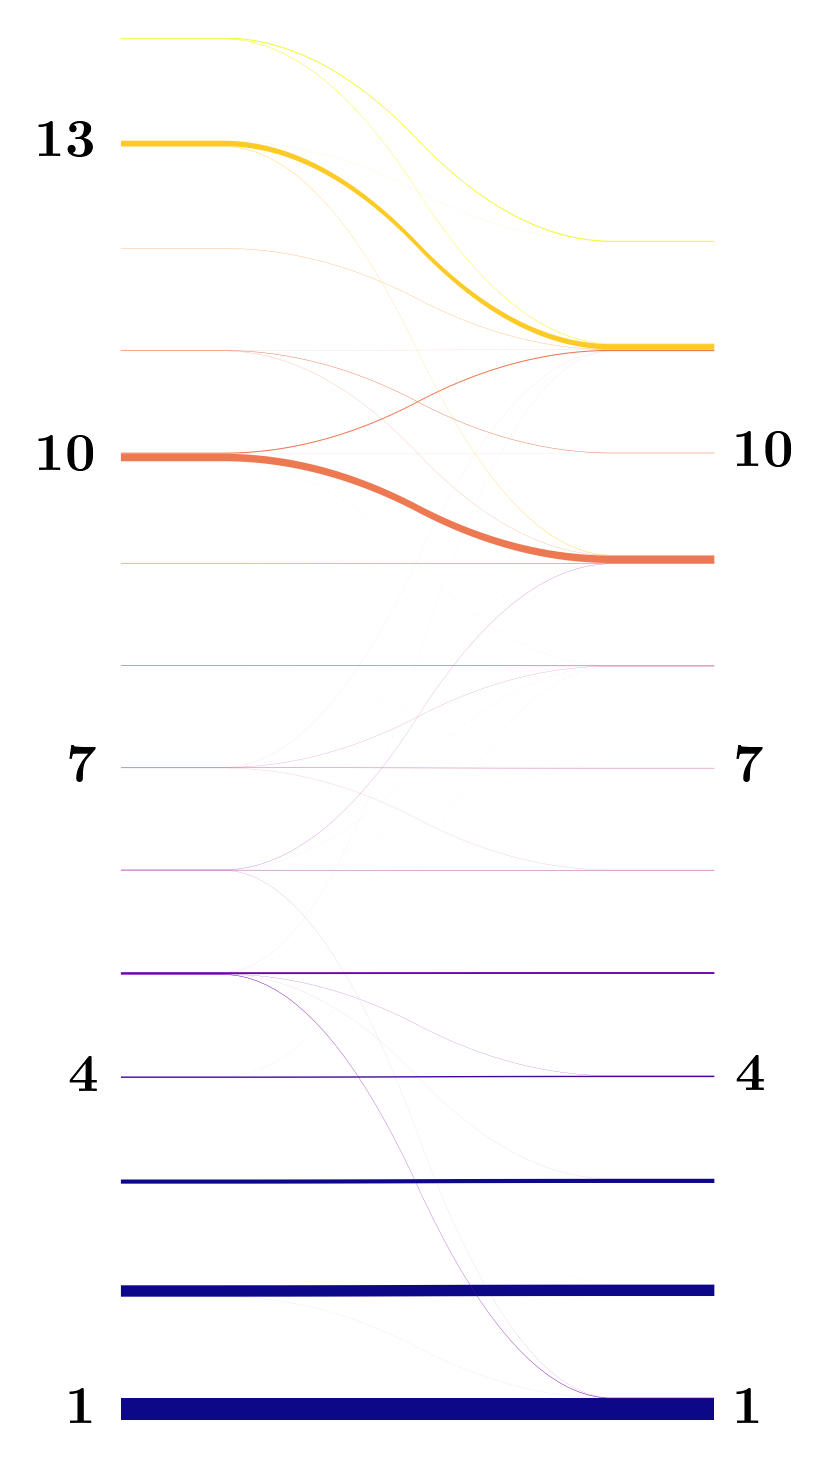
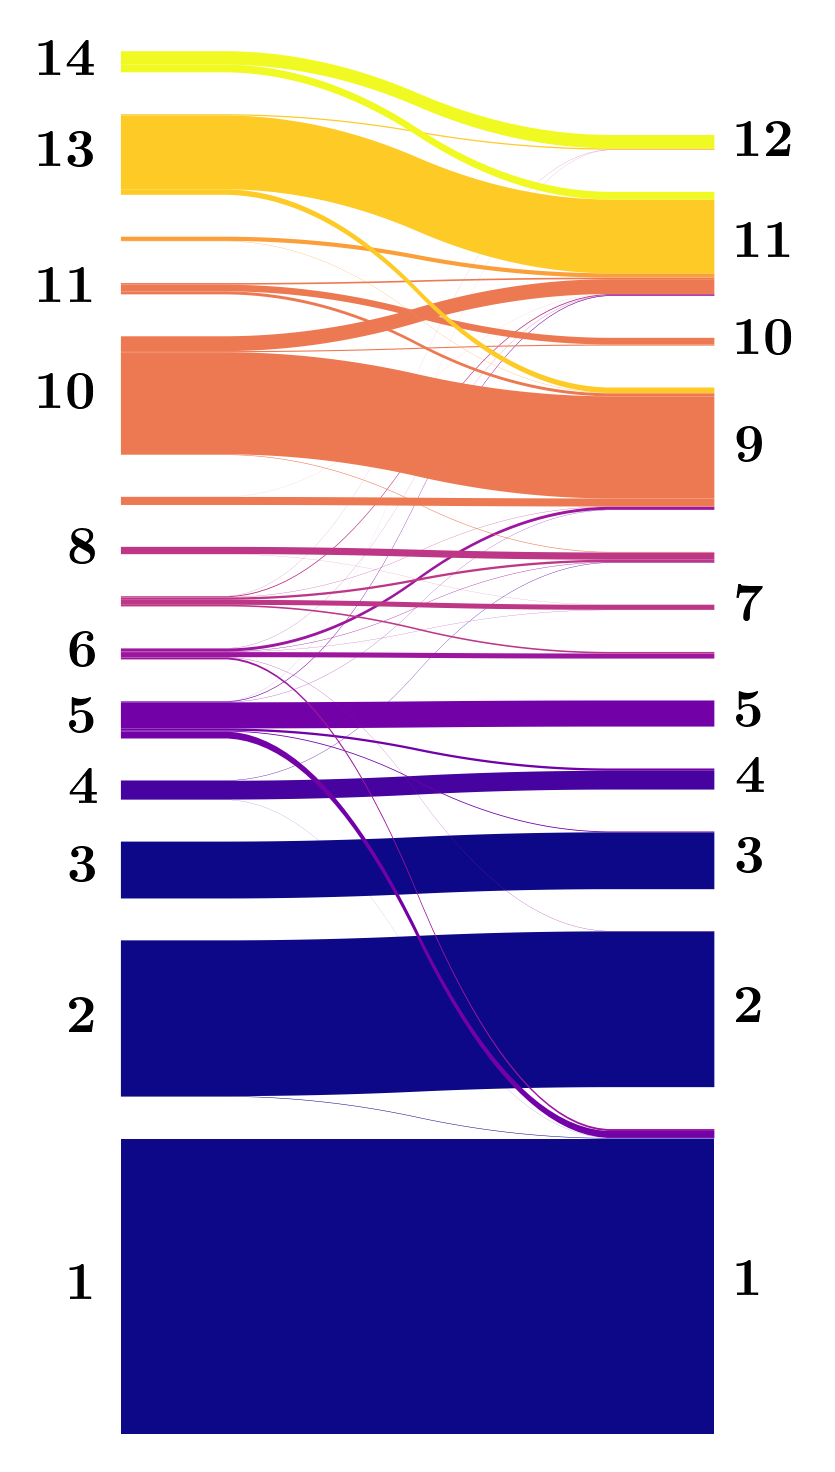
docs: reduce sankey diagram display size to 35% in plots.md

diff --git a/docs/plots.md b/docs/plots.md
@@ -96,7 +96,7 @@ mpp.plot.sankey("sankey.pdf")
 
 **Example (HP35, `KL none` vs `T none` reference, 14 vs 12 macrostates):**
 
-![Sankey diagram](assets/plots/sankey.png)
+<img src="assets/plots/sankey.png" alt="Sankey diagram" width="35%">
 
 ---
 
